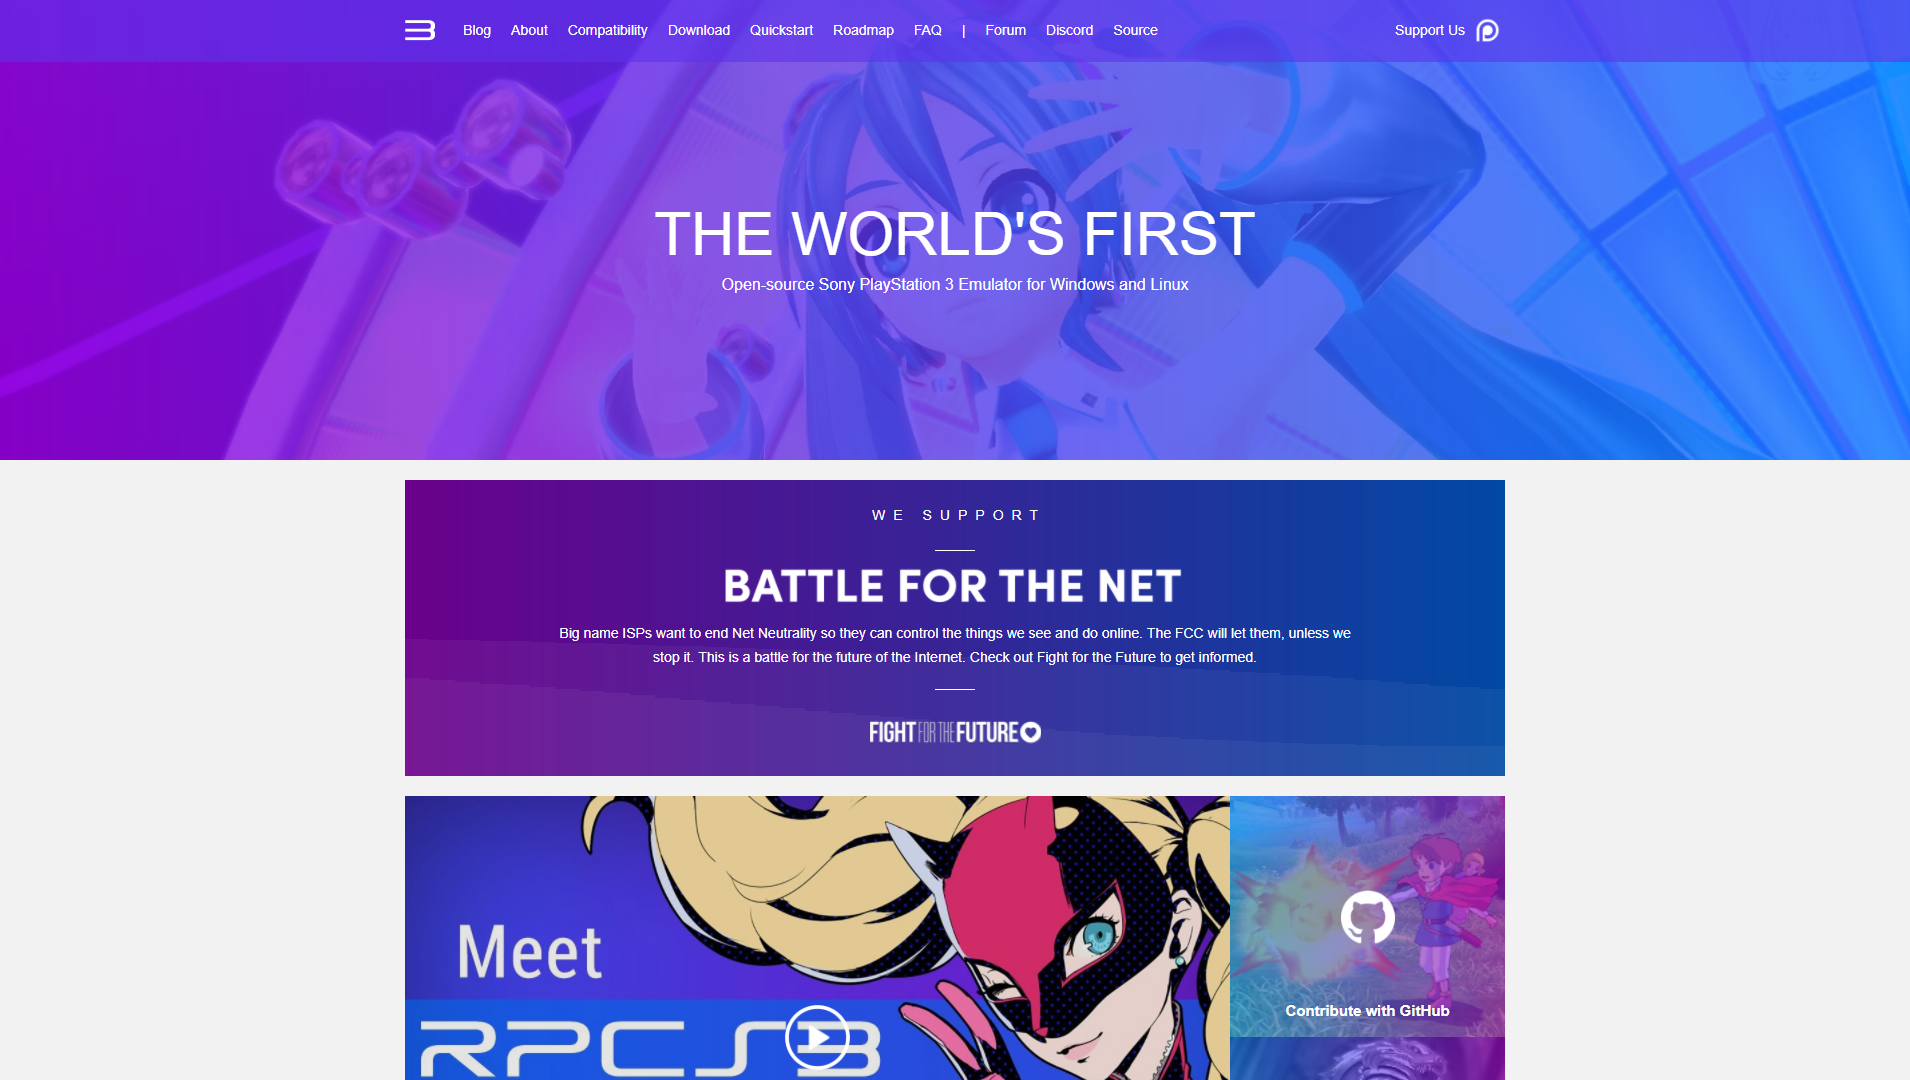
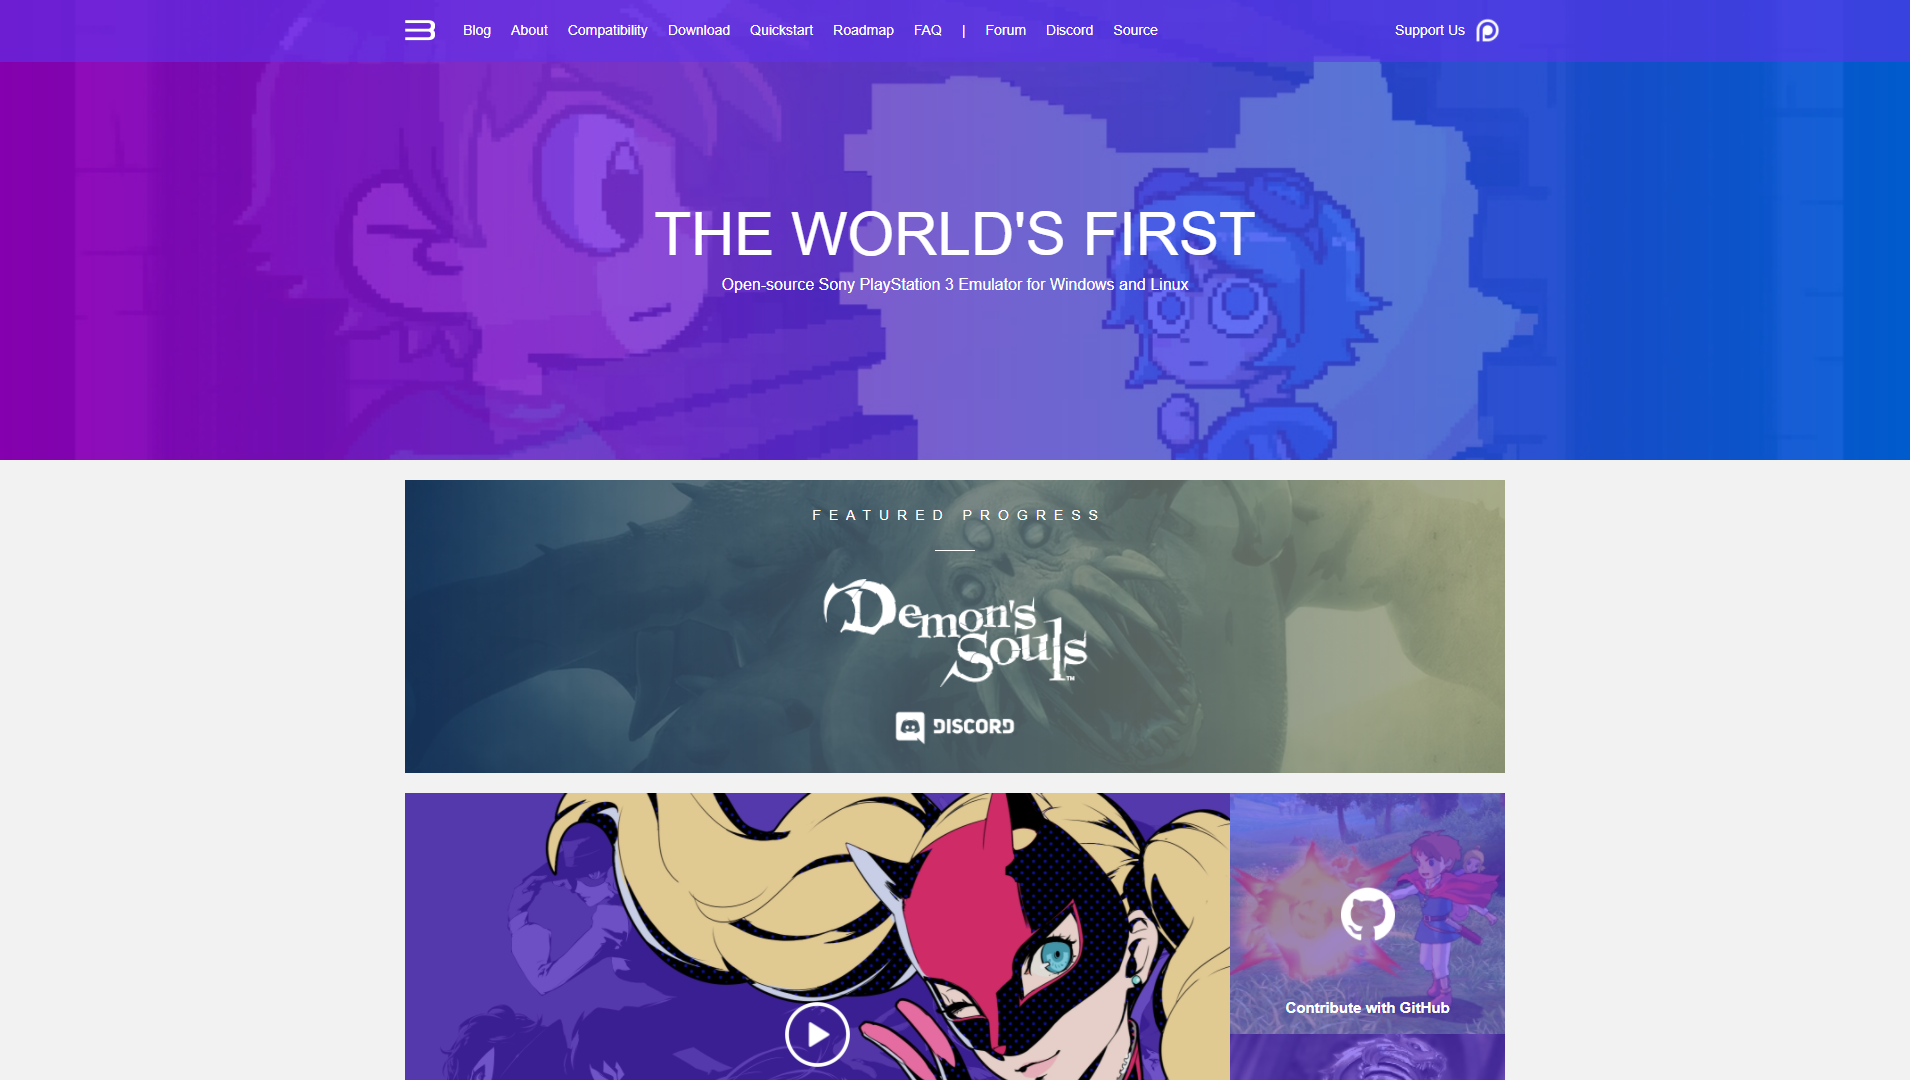
Minor layout changes

diff --git a/public_html/lib/css/main.css b/public_html/lib/css/main.css
@@ -369,7 +369,7 @@
 	top:0;
 	width:100%;
 	height:100%;
-	background:linear-gradient(to right,rgba(0,114,255,.6),rgba(166,0,217,.6));
+	background: rgba(94, 50, 235, .6);
 }
 #sidebar-img-top {
 	position:absolute;
@@ -406,7 +406,7 @@
 	bottom:0;
 	width:100%;
 	height:100%;
-	background:linear-gradient(to right,rgba(0,114,255,.6),rgba(166,0,217,.6));
+	background: rgba(94, 50, 235, .6);
 }
 #sidebar-img-bottom {
 	position:absolute;

diff --git a/public_html/quickstart.php b/public_html/quickstart.php
@@ -191,7 +191,7 @@
 						</p>
 						<br>
 						<p>
-							 • For example: <b class="txt-highlight">BLUS30443</b> is an USA <b class="txt-highlight">Blu-Ray Disc</b> copy of <b class="txt-highlight">Uncharted 3</b>
+							 • For example: <b class="txt-highlight">BLUS30443</b> is an USA <b class="txt-highlight">Blu-Ray Disc</b> copy of <b class="txt-highlight">Demon's Souls</b>
 						</p>
 						<p>
 							 • For example: <b class="txt-highlight">NPEB02436</b> is an Europe <b class="txt-highlight">PlayStation Network</b> copy of <b class="txt-highlight">Persona 5</b>
@@ -531,8 +531,8 @@
 						</div>
 						<div id='featured-tx2-block'>
 							<p>
-								<b>Pad Handler</b><br>
-								 Allows you to select which handler you want to drive your controller's inputs.
+								<b>Controller Handler</b><br>
+								 Allows you to select which handler you want to drive your controller's inputs for emulated games and software. For Linux users, you can configure controllers in RPCS3 using the following methods found <a href='https://gist.github.com/kirbyfan64/72f5d7223fcba2e24c4286aea9e4ccc1' target="_blank">here</a>.
 							</p>
 							<br>
 							<p>
@@ -546,12 +546,12 @@
 							</p>
 							<br>
 							<p>
-								<b>Camera</b><br>
+								<b>Camera Input</b><br>
 								 Allows you to spoof or disable PlayStation 3 compatible cameras.
 							</p>
 							<br>
 							<p>
-								<b>Camera Type</b><br>
+								<b>Camera Settings</b><br>
 								 Allows you to select which device you want to input emulated console camera video/audio.
 							</p>
 						</div>

diff --git a/public_html/faq.php b/public_html/faq.php
@@ -183,7 +183,7 @@
 					</div>
 					<div id='featured-tx2-block'>
 						<p>
-							 We currently support keyboard and mouse input devices as well as native DualShock 4, XInput and MMjoy controllers through software thanks to our core developers and contributors. Unfortunately, we currently do not natively support DualShock 3 controllers. You can however use third party tools like SCP Driver Package to allow your DualShock 3 controller to function like an XInput controller. We plan to add additional input methods in the future as we implement more meaningful features to the emulator. 
+							 We currently support keyboard / mouse inputs and native DualShock 4 controllers. We also support XInput and MMjoy based controllers. Unfortunately, we currently do not natively support DualShock 3 controllers. You can however use third-party tools like SCP Driver Package to allow your DualShock 3 controller to function like an XInput controller. We plan to add additional input methods in the future as we implement more meaningful features to the emulator. 
 						</p>
 					</div>
 				</div>

diff --git a/public_html/lib/module/block-spotlight.php b/public_html/lib/module/block-spotlight.php
@@ -19,8 +19,10 @@
 	<div id='spotlight-btn-body' title="Check out Fight for the Future to get informed.">
 	</div>
 	</a>
-	<div class="visual-wavebar-1">
-	</div>
-	<div class="visual-wavebar-1 delayed-fade" style="display:none;">
+	<div style="display:none">
+		<div class="visual-wavebar-1">
+		</div>
+		<div class="visual-wavebar-1 delayed-fade" style="display:none;">
+		</div>
 	</div>
 </div>
